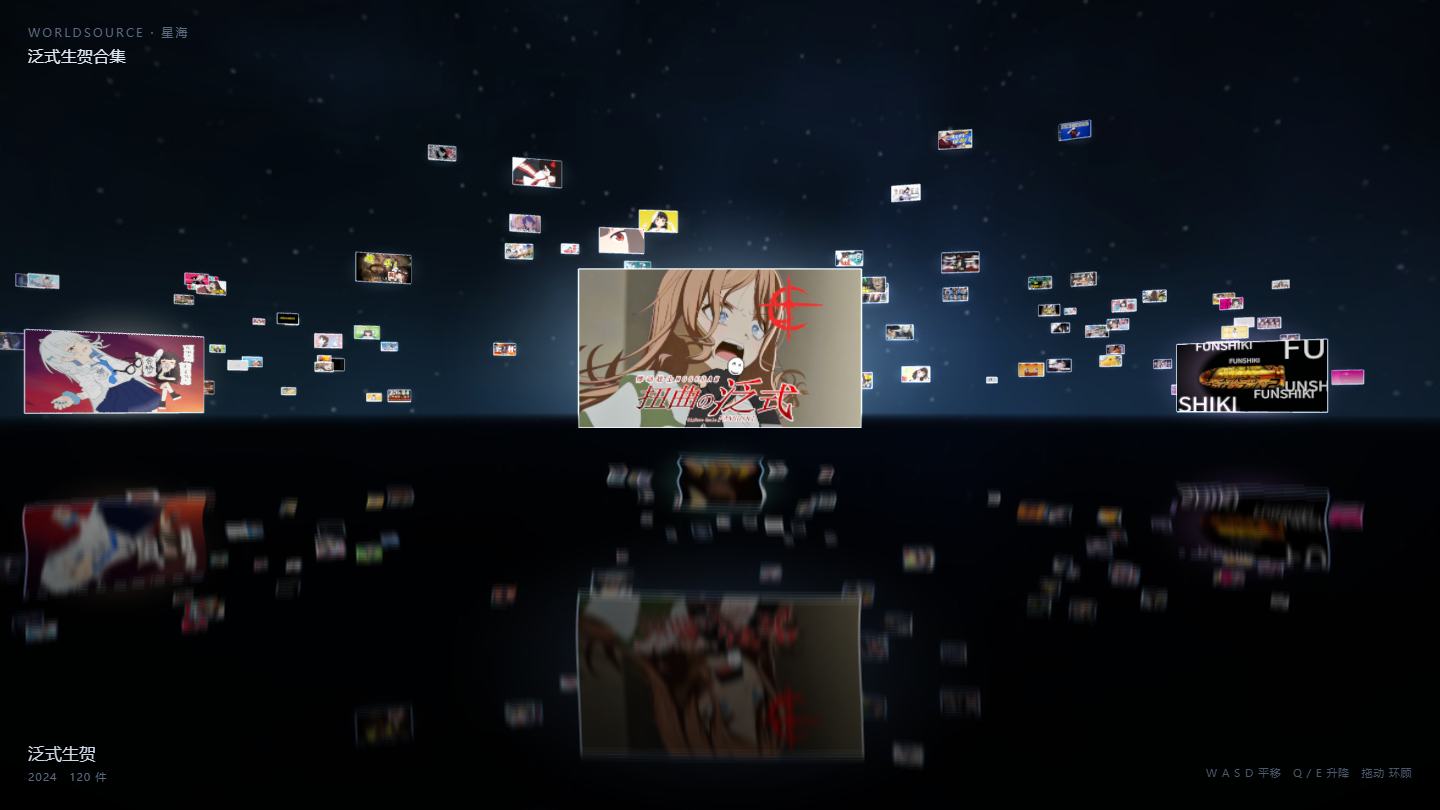
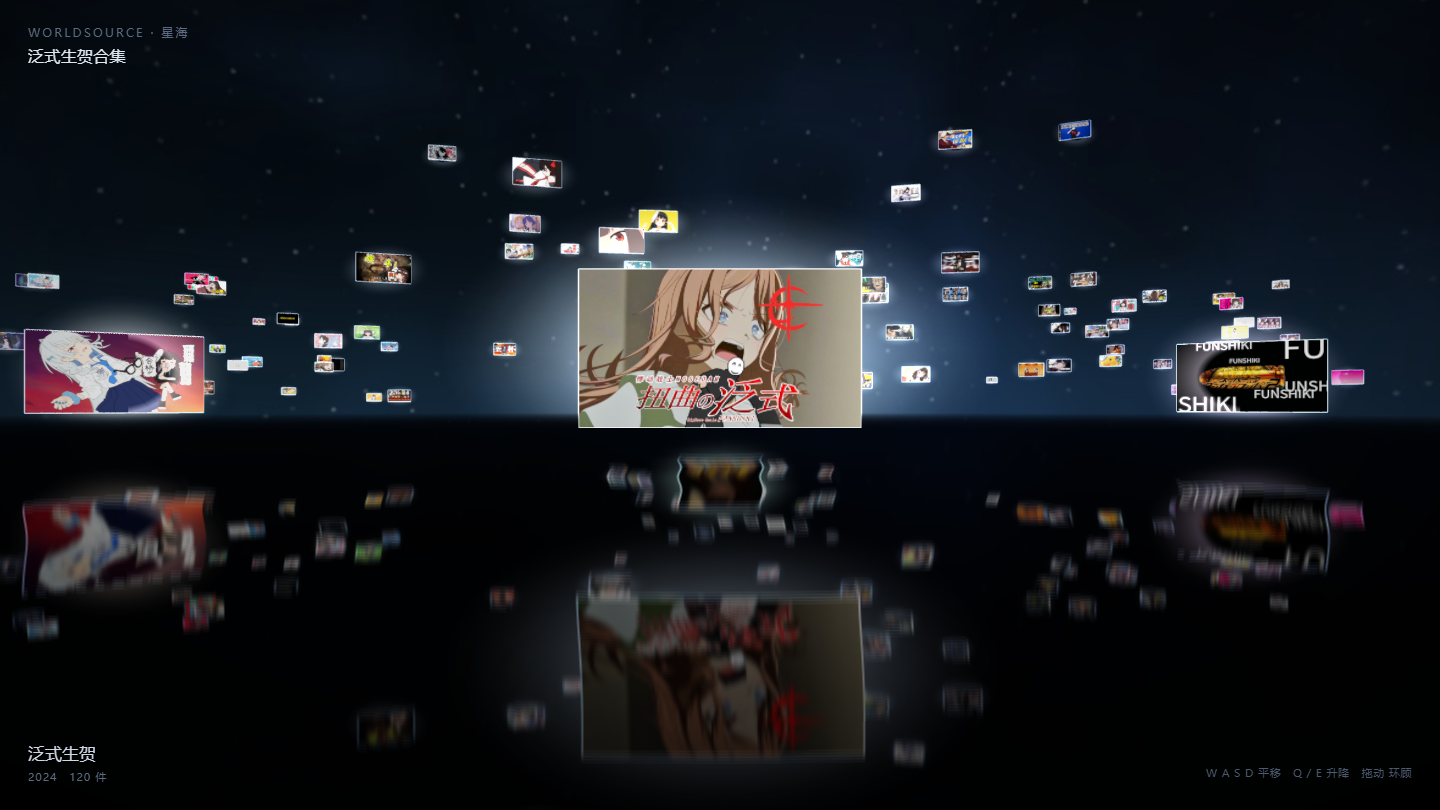
fix: 辉光亮度提上来，画框终于像发光体而不是贴纸
之前一直觉得「有辉光」，但用 ?halo=0 做开关对照、逐像素相减才发现
贴边贡献只有 +0.11，外围 100px 只剩 +0.048 —— 太弱，肉眼读不出是光。

调整：色调亮度 0.74→0.88、饱和度 0.42→0.32（偏冷白），
主画不透明度 0.55→1.0，小画 0.22→0.5。

实测（同机位逐像素相减）：
  贴边   +0.11 → +0.24
  上缘外 +0.15   下缘外 +0.26
  外扩150px +0.038（自然衰减，没有硬边）
小画框同时有了微光，整片才像「星海里的发光体」。

交付图重拍。

diff --git a/viewer/space.js b/viewer/space.js
@@ -197,10 +197,10 @@ gltf.scene.traverse((o) => {
   // 几何对齐：sprite 取 1.28 倍画框时，画框边缘恰好落在 UV 半径 1/1.28 ≈ 0.78 处，
   // 所以贴图的峰値必须放在 0.80（而不是 0.5）。放 0.5 的话峰值藏在画框背后被遮住，
   // 能看见的只有外围长尾巴 —— 那会看起来像背景渐变，不像光晕。
-  const factors = (q.get("halo") === "0") ? [] : (hero ? [[2.0, 0.55]] : [[1.9, 0.22]]);
+  const factors = (q.get("halo") === "0") ? [] : (hero ? [[2.0, 1.0]] : [[1.9, 0.5]]);
   normal.copy(PLANE_FRONT).applyQuaternion(mesh.getWorldQuaternion(tmpQ));
 
-  const tint = new THREE.Color().setHSL(info.hue / 360, 0.42, 0.74, THREE.SRGBColorSpace);
+  const tint = new THREE.Color().setHSL(info.hue / 360, 0.32, 0.88, THREE.SRGBColorSpace);
   const halos = [];
   for (const [f, opacity] of factors) {
     const sp = new THREE.Sprite(new THREE.SpriteMaterial({
